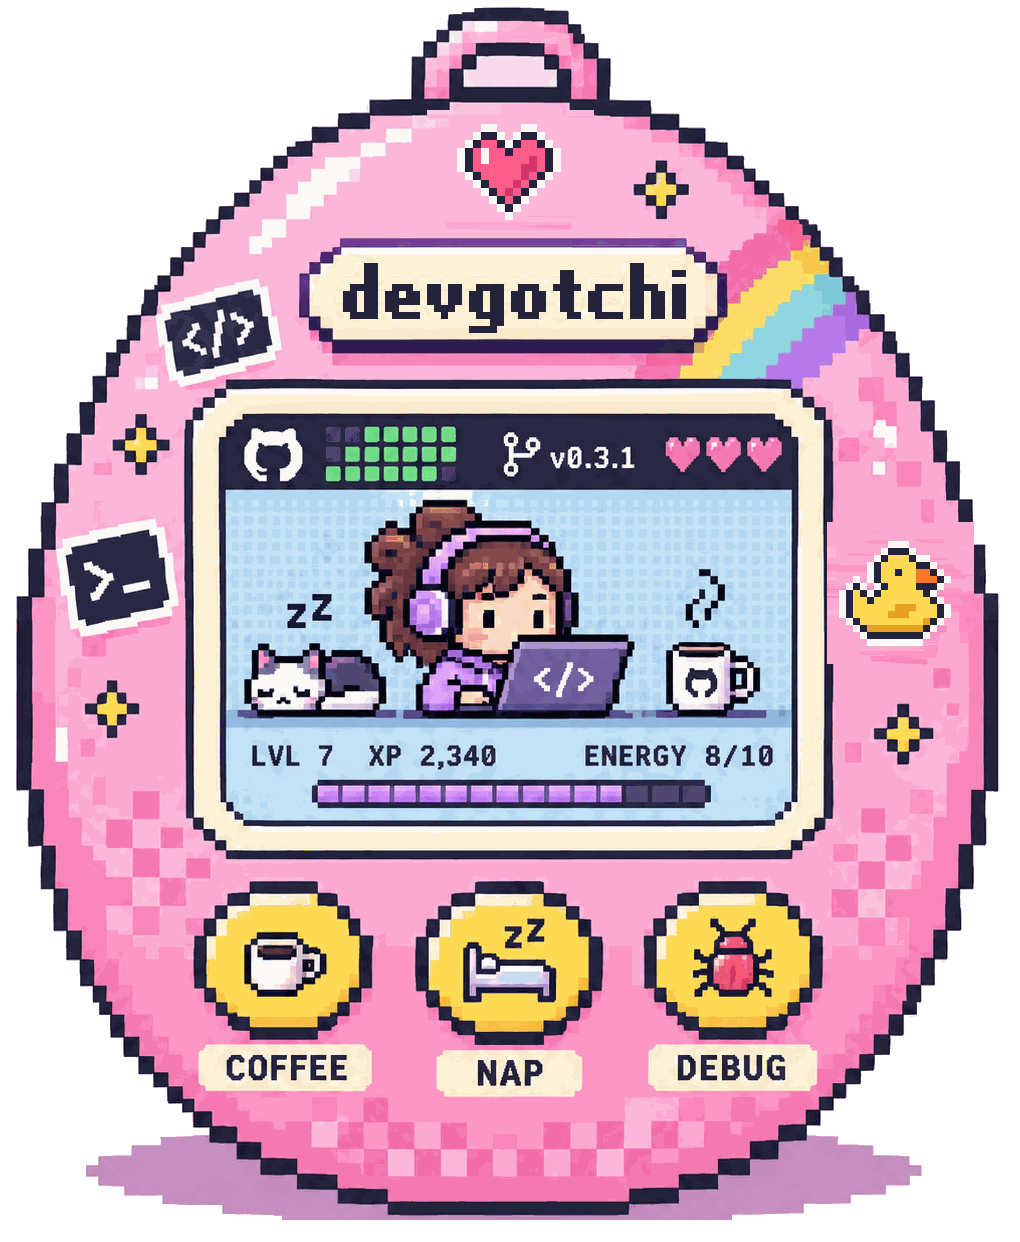
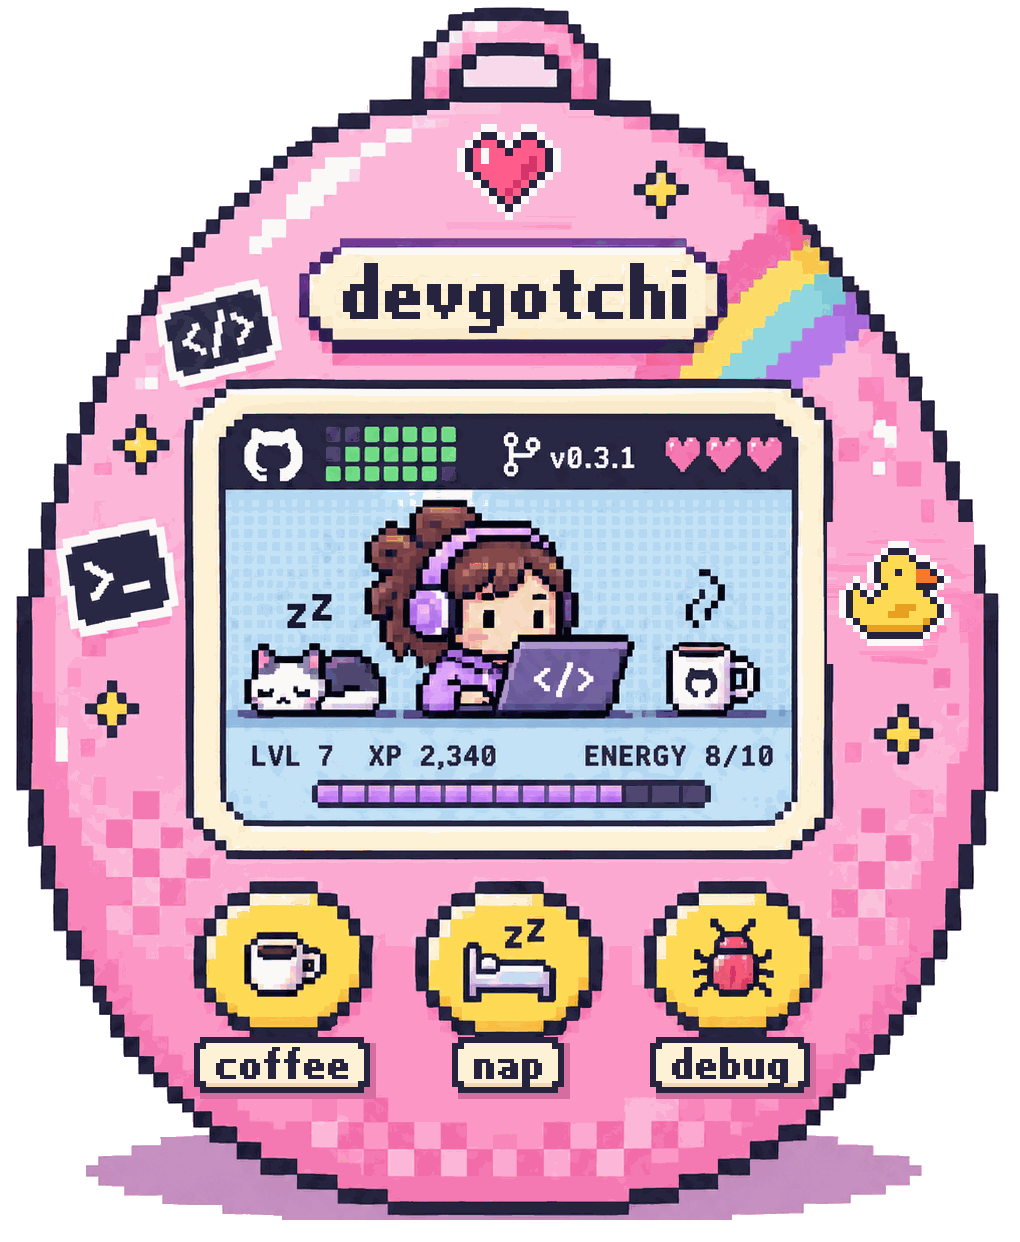
Re-render README

Changed region(s): [[0.1824, 0.8261, 0.3951, 0.8873], [0.6382, 0.8261, 0.8206, 0.8873], [0.4255, 0.8261, 0.5775, 0.8873]]

diff --git a/scripts/build_art.py b/scripts/build_art.py
@@ -28,6 +28,12 @@ LOWER = {
     "c": [".....", ".....", ".....", ".####", "##...", "##...", "##...", ".####"],
     "h": ["##...", "##...", "##...", "####.", "##.##", "##.##", "##.##", "##.##"],
     "i": ["..", "##", "..", "##", "##", "##", "##", "##"],
+    "f": ["..##", ".##.", ".##.", "####", ".##.", ".##.", ".##.", ".##."],
+    "n": [".....", ".....", ".....", "####.", "##.##", "##.##", "##.##", "##.##"],
+    "a": [".....", ".....", ".....", "####.", "...##", ".####", "##.##", ".####"],
+    "p": [".....", ".....", ".....", "####.", "##.##", "##.##", "##.##", "####.", "##...", "##..."],
+    "b": ["##...", "##...", "##...", "####.", "##.##", "##.##", "##.##", "####."],
+    "u": [".....", ".....", ".....", "##.##", "##.##", "##.##", "##.##", ".####"],
 }
 # stickers: fill colours by letter; the ink outline and white sticker edge are grown around them
 STICKER_PAL = {"c": (255, 92, 138), "C": (214, 51, 108), "w": (255, 255, 255), "y": (255, 212, 71),
@@ -112,6 +118,43 @@ def title(a, word="devgotchi", cell=7, box=(452, 256, 812, 337), top=263):
         x += (len(g[0]) + 1) * cell
 
 
+LABELS = {"coffee": (317, 1045, 488, 1090), "nap": (555, 1050, 699, 1096), "debug": (767, 1045, 934, 1090)}
+
+
+def word_mask(word):
+    w = sum(len(LOWER[ch][0]) for ch in word) + len(word) - 1
+    m = np.zeros((10, w), bool)
+    x = 0
+    for ch in word:
+        for j, row in enumerate(LOWER[ch]):
+            for i, v in enumerate(row):
+                m[j, x + i] = v == "#"
+        x += len(LOWER[ch][0]) + 1
+    return m
+
+
+def labels(a, cell=4, top=1047, o=6):
+    """swap the mockup's soft sans button labels for mini nameplates in the same chunky lowercase as the title"""
+    edge = lambda c: (np.arange(c.shape[1]) > 10)[None, :] & (np.arange(c.shape[1]) < c.shape[1] - 10)[None, :] \
+        & (np.arange(c.shape[0]) >= 5)[:, None] & (np.arange(c.shape[0]) < c.shape[0] - 3)[:, None]
+    for word, (x0, y0, x1, y1) in LABELS.items():
+        heal(a, (x0 - 14, y0 - 8, x1 + 14, y1 + 6), edge)
+        m = word_mask(word)
+        tw = m.shape[1] * cell
+        x = (x0 + x1) // 2 - tw // 2
+        x -= (x - CROP[0]) % 3
+        l, t, r, b = x - 4 * cell - o, top - cell - o, x + tw + 4 * cell + o, top + 10 * cell + o
+        a[t + o:b + o, l + o:r + o] = (214, 110, 160)
+        a[t:b, l + o:r - o] = INK
+        a[t + o:b - o, l:r] = INK
+        a[t + o:b - o, l + o:r - o] = (253, 243, 217)
+        a[b - o - cell:b - o, l + o:r - o] = (238, 214, 182)
+        for yy, xx in ((t + o, l + o), (t + o, r - 2 * o), (b - 2 * o, l + o), (b - 2 * o, r - 2 * o)):
+            a[yy:yy + o, xx:xx + o] = INK
+        for j, i in zip(*m.nonzero()):
+            a[top + j * cell:top + (j + 1) * cell, x + i * cell:x + (i + 1) * cell] = INK
+
+
 def decorate(a):
     """swap the mockup's two cat-face stickers for a heart and a debugging duck, and retitle the plate"""
     dark_or_white = lambda c: (c.sum(2) < 330) | (c.min(2) >= 225)
@@ -119,6 +162,7 @@ def decorate(a):
     heal(a, (545, 110, 712, 232), dark_or_white)
     heal(a, (945, 522, 1092, 664), dark_or_white)
     title(a)
+    labels(a)
     sticker(a, HEART, 627, 172, 8)
     sticker(a, DUCK, 1016, 593, 7)
     return a

diff --git a/README.md b/README.md
@@ -1,23 +1,23 @@
 <div align="center">
 
-<img src="egg/title.svg?v=1793921750" width="680" alt="devgotchi: raise a tiny dev, together">
+<img src="egg/title.svg?v=1793922992" width="680" alt="devgotchi: raise a tiny dev, together">
 
 Byte is a tiny pixel dev the internet raises together.<br>
 Press a button on the egg, hit **Create**, and she replies to you in about 30 seconds.
 
-<a href="https://ashleymcnamara.github.io/devgotchi/"><img src="egg/top.svg?v=1793921750" width="340" align="top" alt="devgotchi: Byte is a baby on day 1, level 1. She's cheering. Her sleeping cat is next to her."></a><br><a href="https://ashleymcnamara.github.io/devgotchi/?do=coffee"><img src="art/row-coffee.png" width="131" align="top" alt="Pour Byte a coffee"></a><a href="https://ashleymcnamara.github.io/devgotchi/?do=nap"><img src="art/row-nap.png" width="78" align="top" alt="Send Byte to bed"></a><a href="https://ashleymcnamara.github.io/devgotchi/?do=debug"><img src="art/row-debug.png" width="131" align="top" alt="Help Byte squash a bug"></a><br><img src="art/bottom.png" width="340" align="top" alt="">
+<a href="https://ashleymcnamara.github.io/devgotchi/"><img src="egg/top.svg?v=1793922992" width="340" align="top" alt="devgotchi: Byte is a baby on day 1, level 1. She's cheering. Her sleeping cat is next to her."></a><br><a href="https://ashleymcnamara.github.io/devgotchi/?do=coffee"><img src="art/row-coffee.png" width="131" align="top" alt="Pour Byte a coffee"></a><a href="https://ashleymcnamara.github.io/devgotchi/?do=nap"><img src="art/row-nap.png" width="78" align="top" alt="Send Byte to bed"></a><a href="https://ashleymcnamara.github.io/devgotchi/?do=debug"><img src="art/row-debug.png" width="131" align="top" alt="Help Byte squash a bug"></a><br><img src="art/bottom.png" width="340" align="top" alt="">
 
-<img src="egg/bubble.svg?v=1793921750" width="680" alt="She's doing great. Any button keeps her happy. Byte becomes a toddler tomorrow.">
+<img src="egg/bubble.svg?v=1793922992" width="680" alt="She's doing great. Any button keeps her happy. Byte becomes a toddler tomorrow.">
 
 <sub>💕 raised by @ashleymcnamara · 1 caretaker · 13 presses</sub>
 
 <br>
 
-<img src="egg/care.svg?v=1793921750" width="680" alt="How to care for her. Coffee gives energy, but too much makes her jittery. A nap gives rest and energy and calms her down. Debugging squashes a bug for XP and costs a little energy. One press per person, per hour.">
+<img src="egg/care.svg?v=1793922992" width="680" alt="How to care for her. Coffee gives energy, but too much makes her jittery. A nap gives rest and energy and calms her down. Debugging squashes a bug for XP and costs a little energy. One press per person, per hour.">
 
-<img src="egg/life.svg?v=1793921750" width="680" alt="How she grows: baby, toddler, kid, teen, dev, then a wise elder. After day 60 a new egg hatches. She's a baby right now.">
+<img src="egg/life.svg?v=1793922992" width="680" alt="How she grows: baby, toddler, kid, teen, dev, then a wise elder. After day 60 a new egg hatches. She's a baby right now.">
 
-<img src="egg/neglect.svg?v=1793921750" width="680" alt="If you forget her: every 6 hours she gets tired and bugs pile up. After 1 day she's grumpy. After 2 days she starts rewriting everything in Rust. She never dies, and one press cheers her right up.">
+<img src="egg/neglect.svg?v=1793922992" width="680" alt="If you forget her: every 6 hours she gets tired and bugs pile up. After 1 day she's grumpy. After 2 days she starts rewriting everything in Rust. She never dies, and one press cheers her right up.">
 
 <sub>🥚 also hiding on [@ashleymcnamara's profile](https://github.com/ashleymcnamara) · [play in your browser](https://ashleymcnamara.github.io/devgotchi/)</sub>
 
